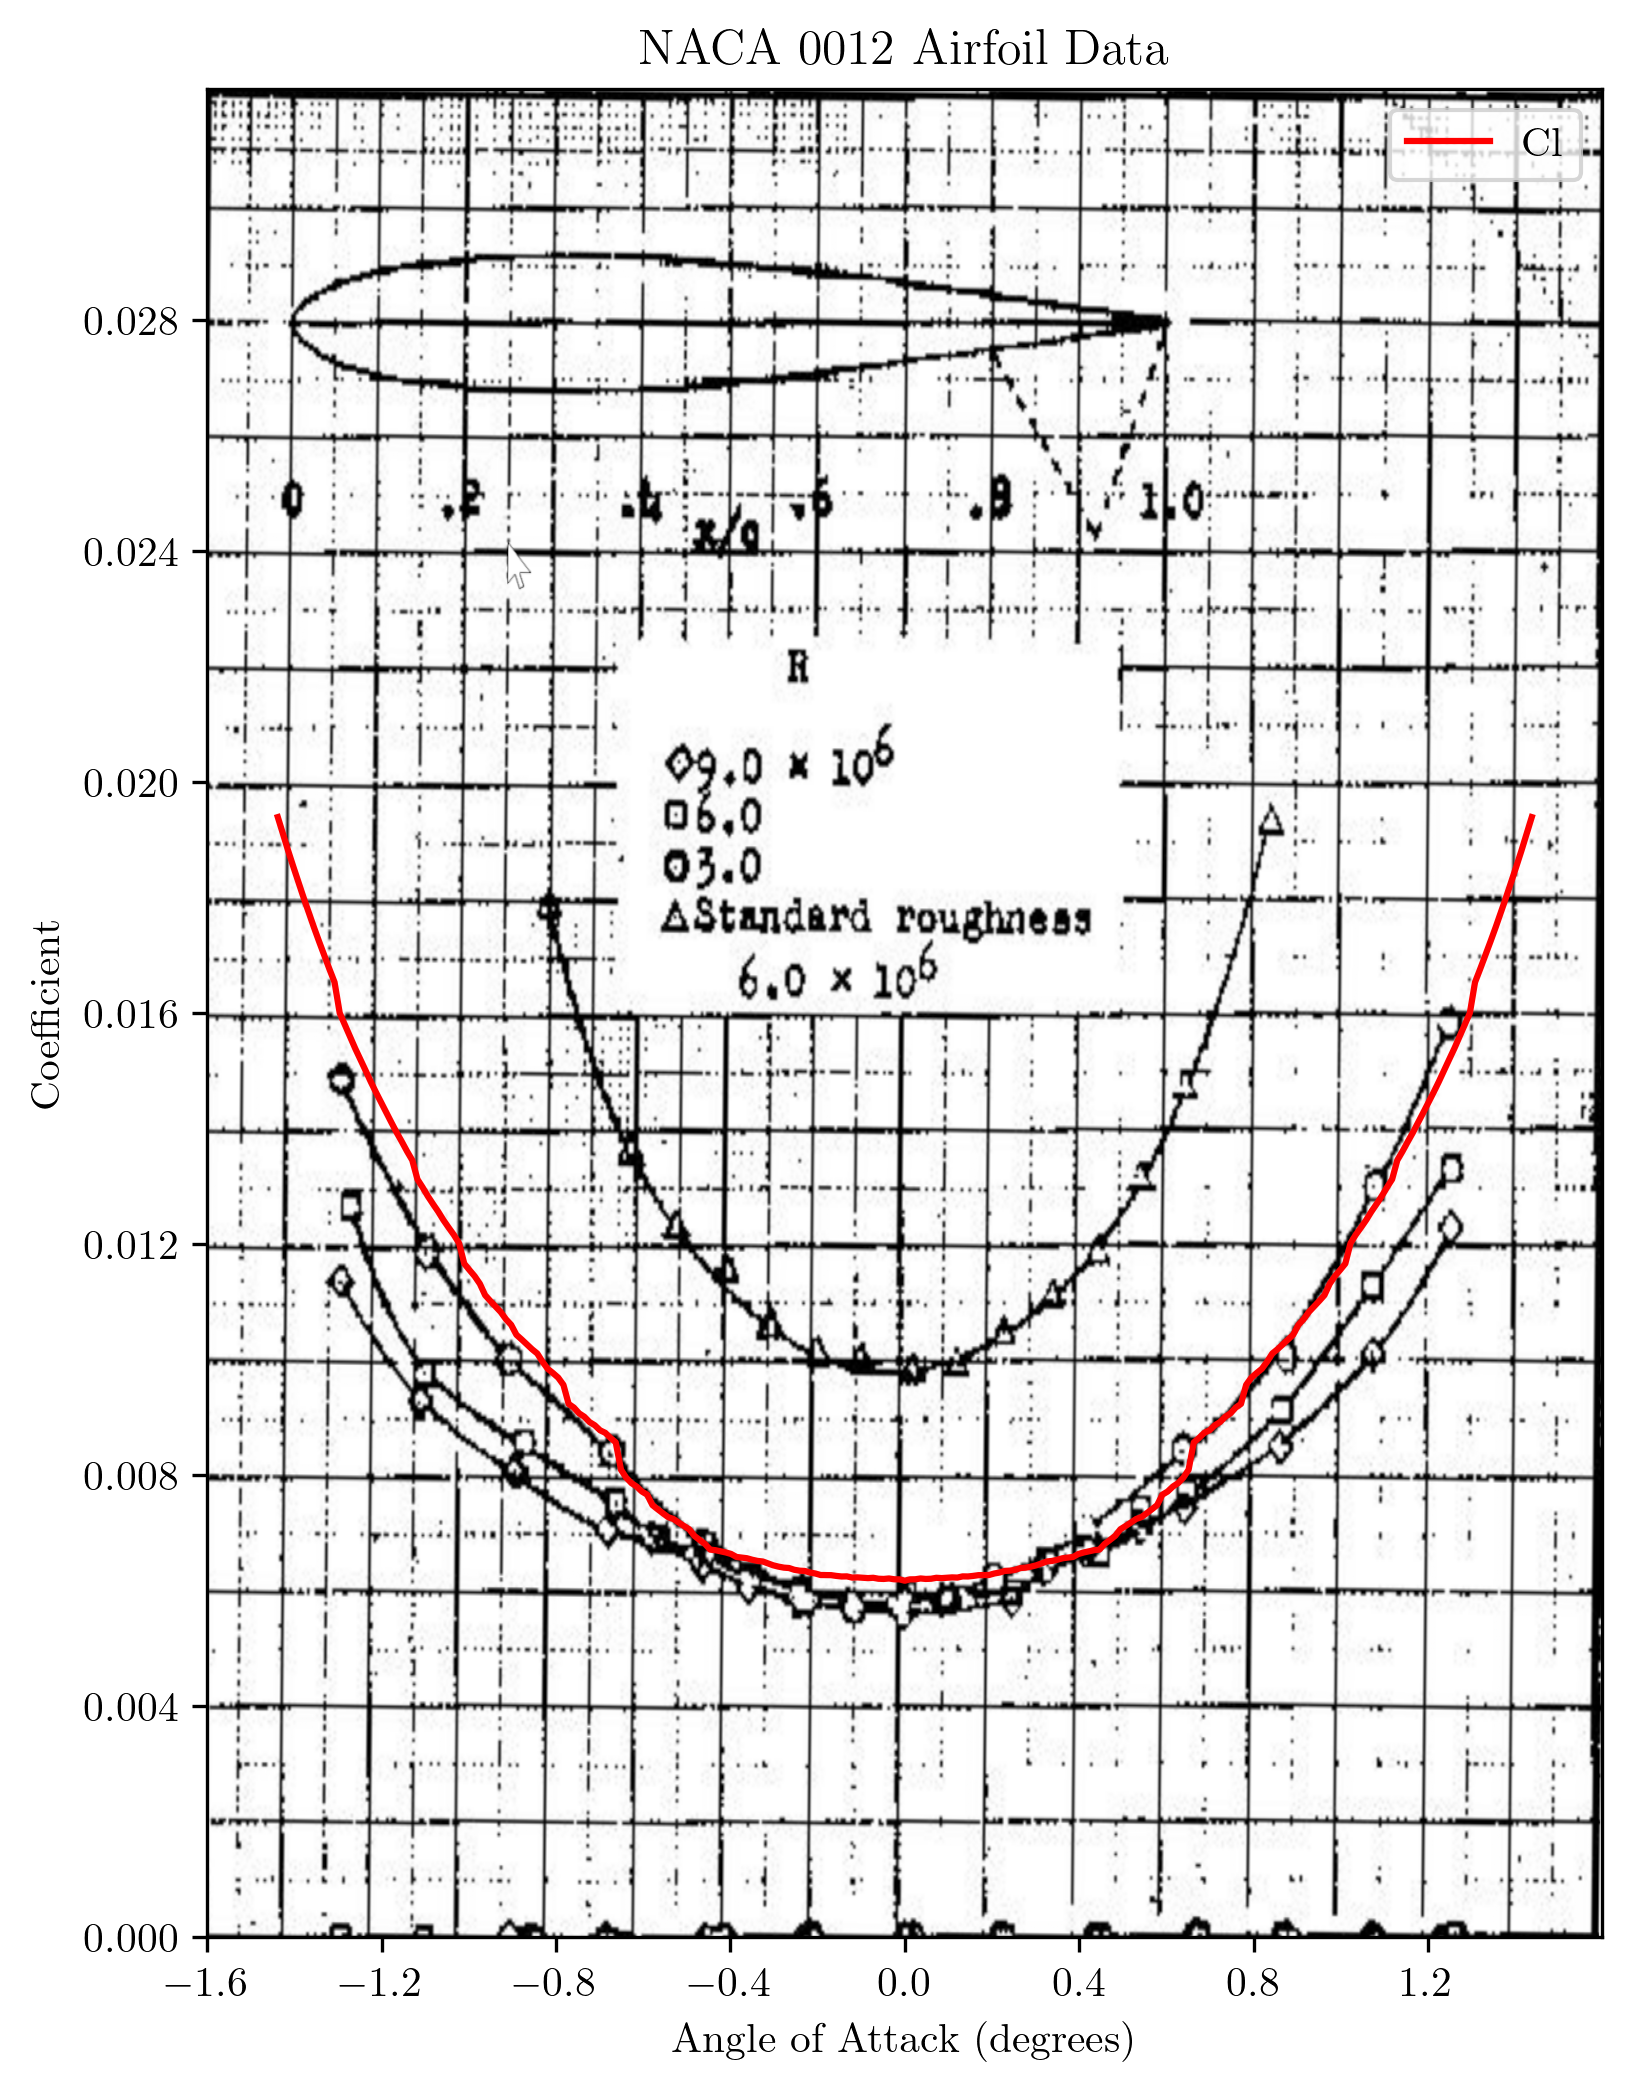
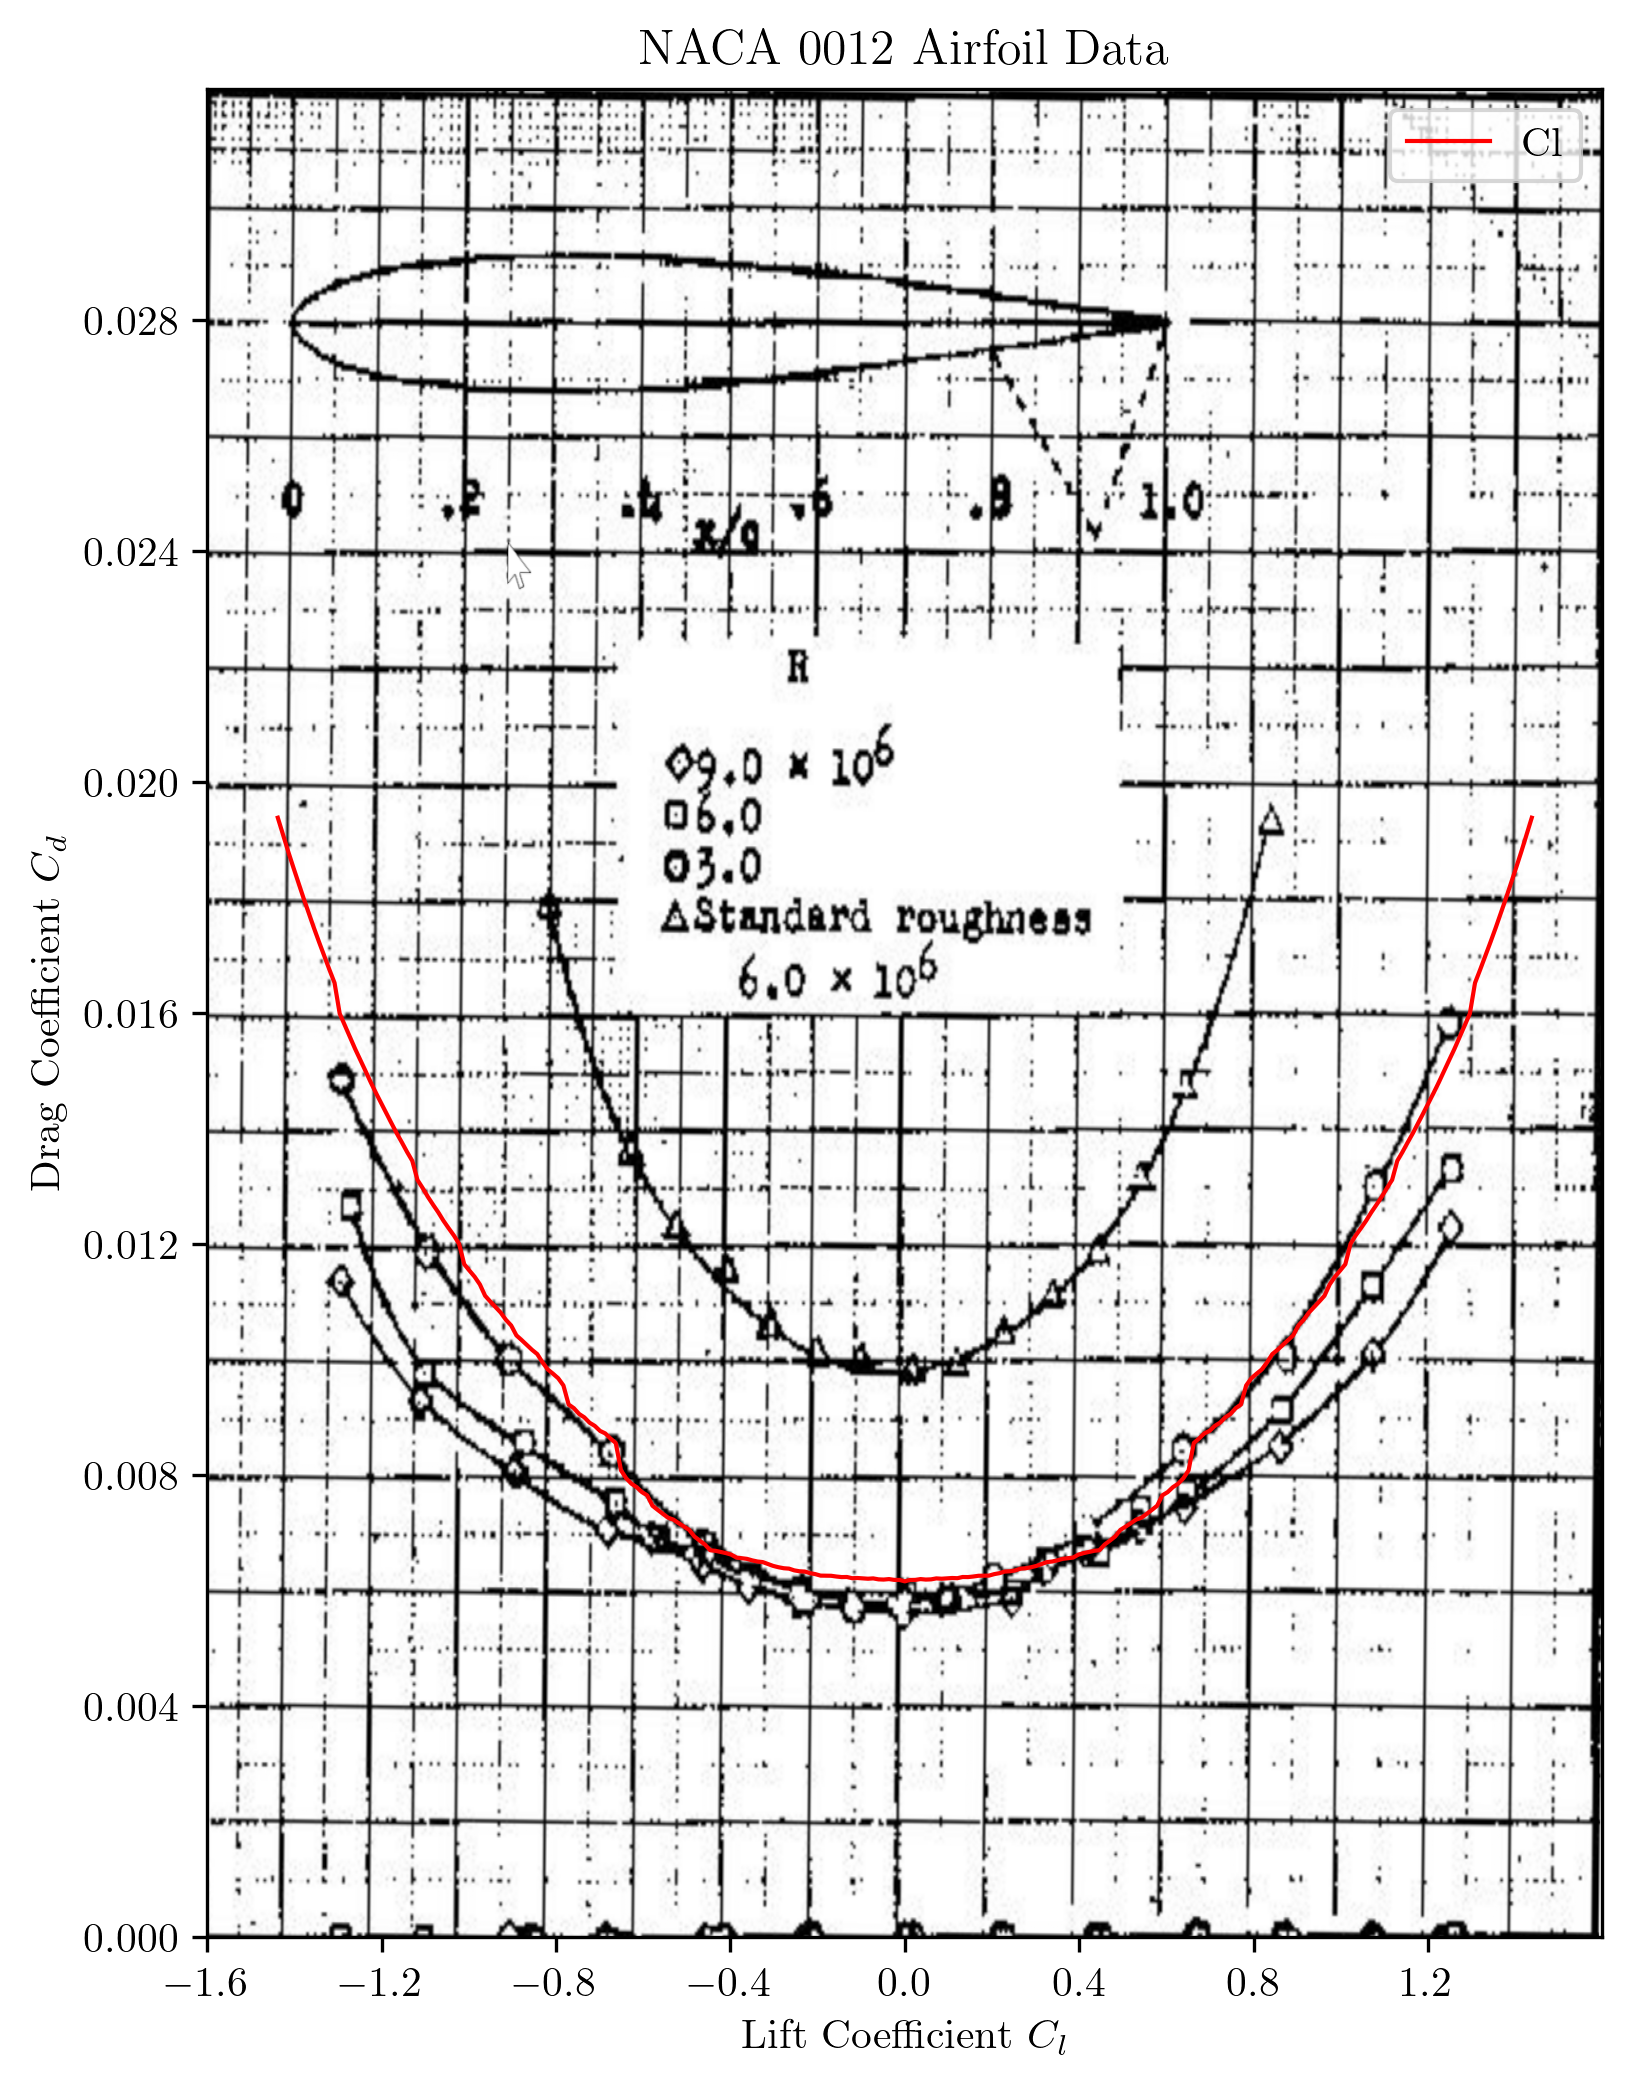
validation figures in place

diff --git a/IIA/Aircraft_Wing_Analysis_Reports/final/final.tex b/IIA/Aircraft_Wing_Analysis_Reports/final/final.tex
@@ -147,16 +147,36 @@ If $m > 0.09$, then the laminar boundary layer seperates and is treated as turbu
 
 \begin{figure}[H]
     \centering
-    \includegraphics[width=0.5\textwidth]{figures/NACA0012_lift_validation.png}
-    \caption{Lift coefficient against angle of attack for NACA 0012 airfoil at $Re = 3\times10^6$}
-    \label{fig:0012_lift_validation}
+    \captionsetup{justification=centering}
+    \begin{subfigure}{0.45\textwidth}
+        \includegraphics[width=0.99\textwidth]{figures/NACA0012_lift_validation.png}
+        \caption{Lift coefficient against angle of attack}
+        \label{fig:0012_lift_validation}
+    \end{subfigure}
+    \begin{subfigure}{0.45\textwidth}
+        \centering
+        \includegraphics[width=0.99\textwidth]{figures/NACA0012_drag_validation.png}
+        \caption{Drag coefficient against lift coefficient}
+        \label{fig:0012_drag_validation}
+    \end{subfigure}
+    \caption{Experimetnal and calculated performance at $Re = 3\times10^6$ for the NACA0012 aerofoil}
 \end{figure}
 
 \begin{figure}[H]
     \centering
-    \includegraphics[width=0.5\textwidth]{figures/NACA0012_drag_validation.png}
-    \caption{Drag coefficient against lift coefficient for NACA 0012 airfoil at $Re = 3\times10^6$}
-    \label{fig:0012_drag_validation}
+    \captionsetup{justification=centering}
+    \begin{subfigure}{0.45\textwidth}
+        \includegraphics[width=0.9\textwidth]{figures/NACA4412_lift_validation.png}
+        \caption{Lift coefficient against angle of attack}
+        \label{fig:4412_lift_validation}
+    \end{subfigure}
+    \begin{subfigure}{0.45\textwidth}
+        \centering
+        \includegraphics[width=0.9\textwidth]{figures/NACA4412_drag_validation.png}
+        \caption{Drag coefficient against lift coefficient}
+        \label{fig:4412_drag_validation}
+    \end{subfigure}
+    \caption{Experimetnal and calculated performance at $Re = 3\times10^6$ for the NACA4412 aerofoil}
 \end{figure}
 
 \section{Topology Optimization}
